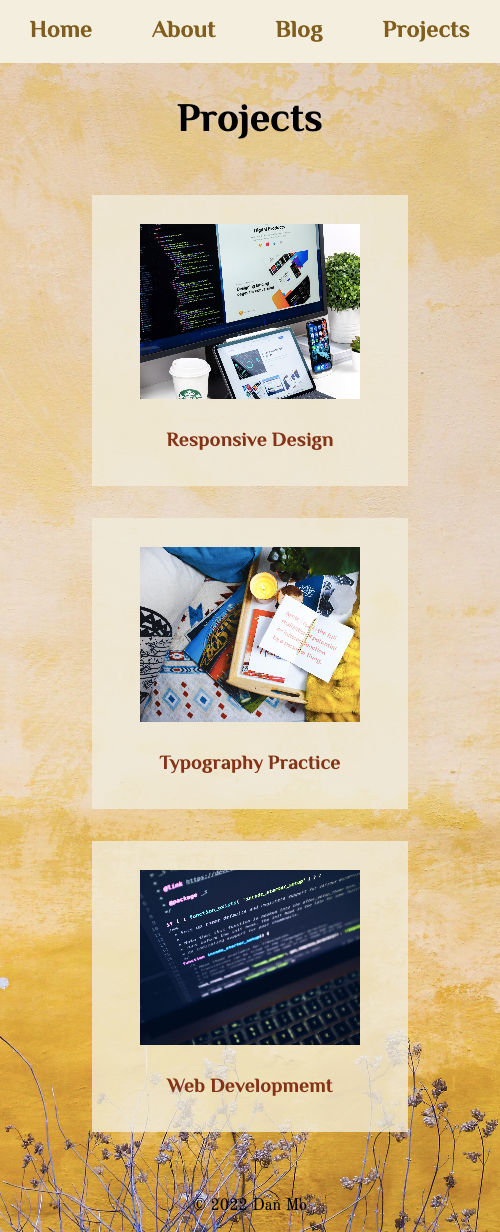
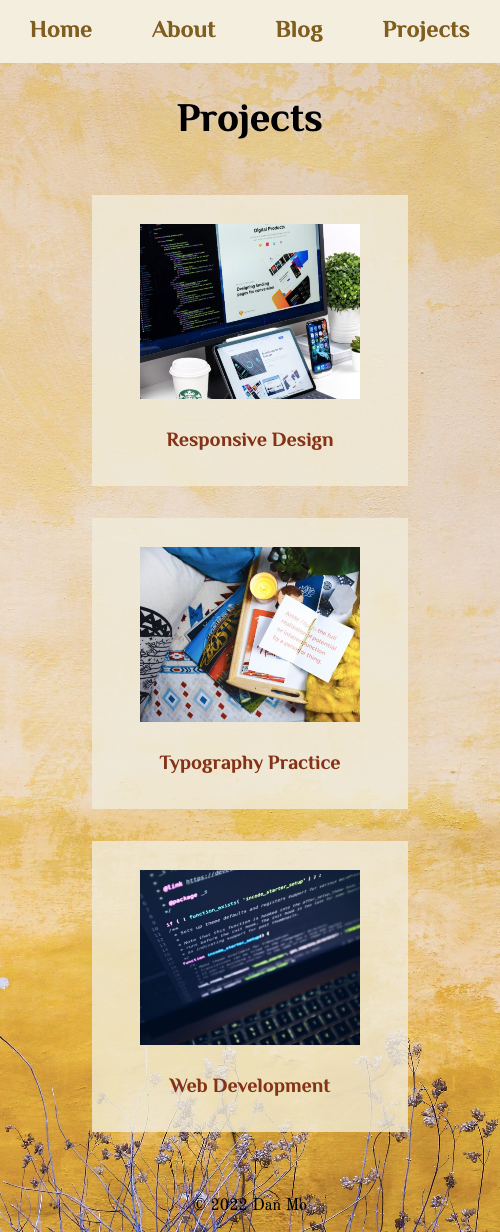
corrected typo, updated screenshots

diff --git a/README.md b/README.md
@@ -62,6 +62,6 @@ Target Audience of this website is potential employer within the IT industry tha
 - wireframe: Figma
 - sitemap: draw.oi
 - website: HTML5, CSS3
-- deployment: Netify
+- deployment: Netlify
 
 
